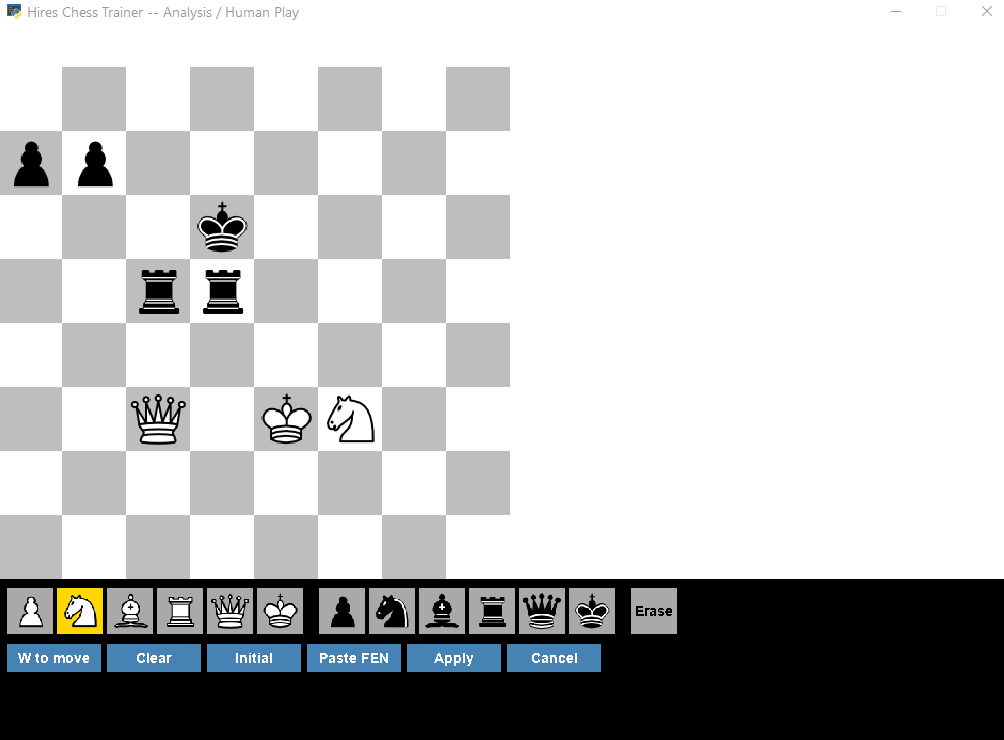
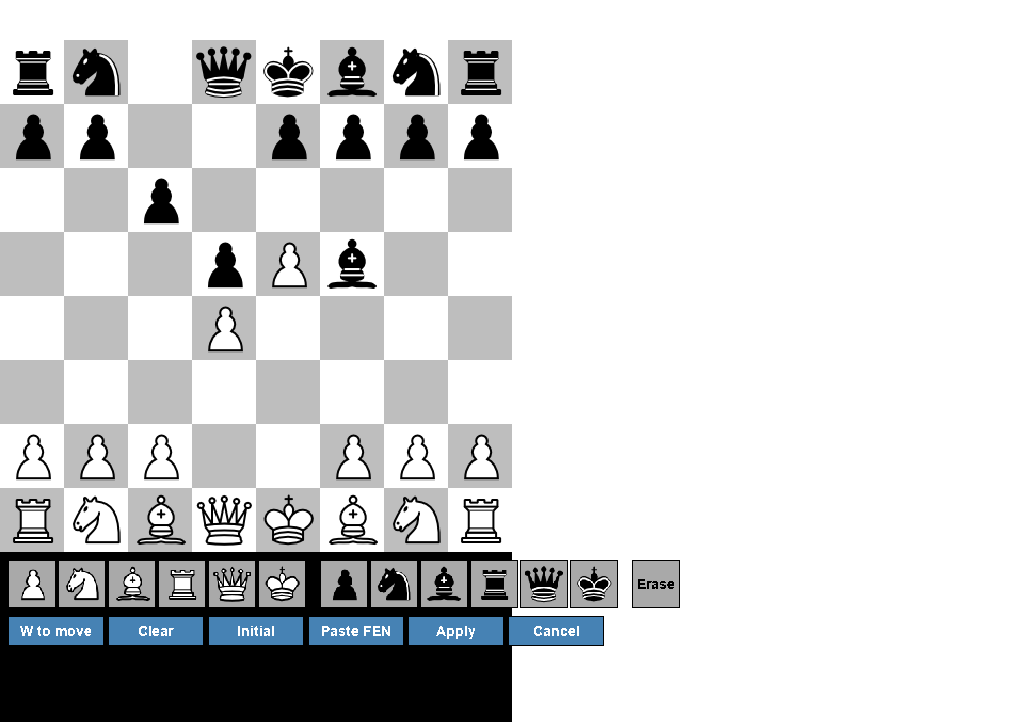
tooling: capture_screenshots.py also captures notation + setup (+ advisor preview)
Modal screens (Notation panel, Position setup, Study advisor) are captured via
mock data + a first-frame hook that saves app.screen and injects Esc, so they
need NO changes to their own modal loops. Regenerate notation.png and setup.png.
advisor stays the author's real-data screenshot (harness can --preview a mock).

diff --git a/capture_screenshots.py b/capture_screenshots.py
@@ -190,6 +190,64 @@ def capture_endgame(screen, path):
                   f"Endgame: esempi -- {title} (1/2, playing White)")
 
 
+# --- modal screens: grab the FIRST rendered frame, then inject Esc to exit -----
+def capture_modal(path, call):
+    """Run a modal render function (its own event loop), save the first frame it
+    presents, and post Esc so it returns -- without touching the modal's code.
+    We hook display.flip/update (whatever it uses to present) and grab app.screen."""
+    state = {"saved": False}
+    orig_flip, orig_update = p.display.flip, p.display.update
+
+    def hook(*a, **k):
+        if not state["saved"]:
+            state["saved"] = True
+            p.image.save(app.screen, path)
+            print("wrote", path)
+            p.event.post(p.event.Event(p.KEYDOWN, key=p.K_ESCAPE, mod=0, unicode="\x1b"))
+
+    p.display.flip = hook
+    p.display.update = hook
+    try:
+        call()
+    finally:
+        p.display.flip, p.display.update = orig_flip, orig_update
+
+
+def capture_notation(screen, path):
+    import io
+    import notation
+    pgn_text = ('[Event "Demo"]\n\n'
+                '1. e4 e5 2. Nf3 Nc6 3. Bb5! {The Ruy Lopez -- the main line.} '
+                '(3. Bc4 {Italian Game} 3... Bc5 4. c3 Nf6) '
+                '3... a6 4. Ba4 Nf6 5. O-O Be7 6. Re1 b5 *\n')
+    game = chess.pgn.read_game(io.StringIO(pgn_text))
+    gs = GameState()
+    gs.setPgn(game)
+    capture_modal(path, lambda: notation.show_notation(gs))
+
+
+def capture_setup(screen, path):
+    import position_setup
+    gs = gs_at(game_from_pgn("openings/B12CaroKan.pgn"), advance=6)
+    capture_modal(path, lambda: position_setup.run(gs))
+
+
+def capture_advisor(screen, path):
+    from modes.study_advisor import _show_results, ECOStat
+    stats = [
+        ECOStat("C01", 637, 292, 31, 314), ECOStat("B01", 631, 291, 31, 309),
+        ECOStat("C77", 75, 31, 1, 43),     ECOStat("B45", 15, 3, 0, 12),
+        ECOStat("B27", 147, 67, 5, 75),    ECOStat("C89", 58, 23, 4, 31),
+        ECOStat("C00", 257, 122, 6, 129),  ECOStat("C64", 218, 102, 7, 109),
+        ECOStat("C70", 111, 51, 2, 58),    ECOStat("A46", 156, 68, 14, 74),
+        ECOStat("C66", 59, 26, 1, 32),     ECOStat("E60", 30, 12, 0, 18),
+        ECOStat("A10", 24, 7, 4, 13),      ECOStat("B29", 12, 3, 0, 9),
+        ECOStat("C40", 176, 83, 5, 88),
+    ]
+    header = "Study priorities for hires (Both) -- 18627 games, 168 ECO"
+    capture_modal(path, lambda: _show_results(stats, header, "hires", None, "pgn/all.pgn"))
+
+
 def main():
     preview = "--preview" in sys.argv
     screen = boot()
@@ -198,6 +256,13 @@ def main():
     capture_solve(screen, f"{prefix}solve.png")
     capture_openings(screen, f"{prefix}openings.png")
     capture_endgame(screen, f"{prefix}endgame.png")
+    capture_notation(screen, f"{prefix}notation.png")
+    capture_setup(screen, f"{prefix}setup.png")
+    # advisor uses mock data; the committed advisor.png is the author's real-data
+    # screenshot, so only (re)generate it in --preview (for verification). Flip
+    # this if you'd rather have the fully-automated mock version.
+    if preview:
+        capture_advisor(screen, f"{prefix}advisor.png")
     p.quit()
 
 